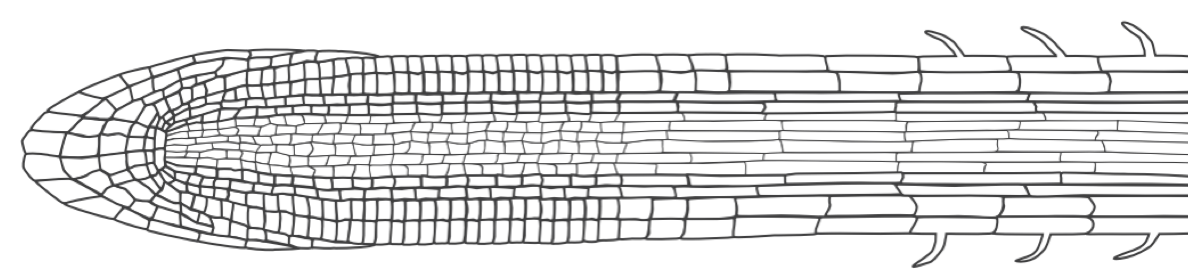
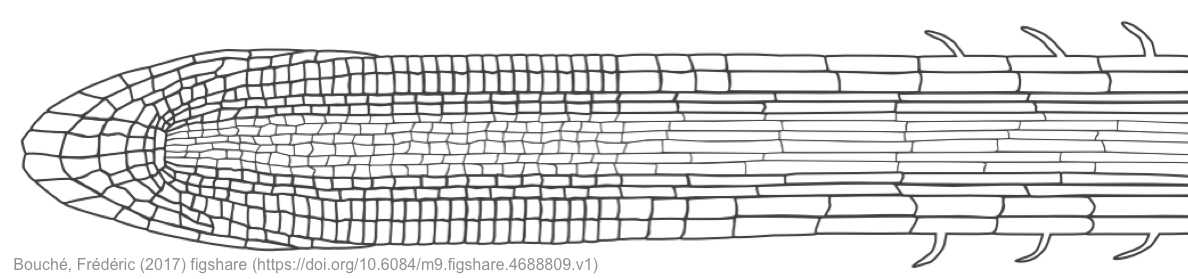
UPDATE AGAIN

Changed region(s): [[0.0, 0.9176, 0.4983, 0.9749]]

diff --git a/PITCHME.md b/PITCHME.md
@@ -19,18 +19,28 @@ Guillaume Lobet
 Course evaluation: http://bit.ly/lbres2219-eval
 
 
+
+
+
 ---
 
 ## Course overview
 
-- What are roots and how do they form root systems
-- What is the soil? 
-- Roots and water uptake
-	- How do root architecture shape the water uptake?
-	- How do the water content shape the root architecture? 
+- Single root anatomy
+- Root systems <!-- .element: class="fragment" -->
+- What about the soil? <!-- .element: class="fragment" -->
+- Roots and water uptake  <!-- .element: class="fragment" -->
+	- How do root architecture shape the water uptake? <!-- .element: class="fragment" -->
+	- How do the water content shape the root architecture?  <!-- .element: class="fragment" -->
 
 
 
+
+
+
+
+
+<!--    	SECTION ABOUT THE SINGLE ROOTS ANATOMY   -->
 ---
 
 ## Single root anatomy
@@ -42,16 +52,12 @@ Course evaluation: http://bit.ly/lbres2219-eval
 
 ![](img/root-1.png)
 
-<small>[Bouché, Frédéric (2017) figshare](https://doi.org/10.6084/m9.figshare.4688809.v1)</small>
-
 
 +++
 
 #### Root have simple radial and axial anatomy
 
 <img src="img/root-anatomy.png" height="400"/> 
-
-<small>[Bouché, Frédéric (2017) figshare](https://doi.org/10.6084/m9.figshare.4688809.v1)</small>
 
 
 +++
@@ -66,6 +72,10 @@ Examples unsing the MECHA model
 
 
 
+
+
+
+<!--    	SECTION ABOUT THE ROOT SYSTEMS    -->
 ---
 
 ## Root systems
@@ -77,7 +87,6 @@ Examples unsing the MECHA model
 
 ![](img/root-2.png)
 
-<span class="ref">[Bouché, Frédéric (2017) figshare](https://doi.org/10.6084/m9.figshare.4688809.v1)</span>
 
 
 +++
@@ -88,7 +97,6 @@ Examples unsing the MECHA model
 
 ![](img/root-pop.png)
 
-<span class="ref">Kutschera, L. et al. (1997) Wurzelatlas der Kulturpflanzen</span>
 
 +++ 
 
